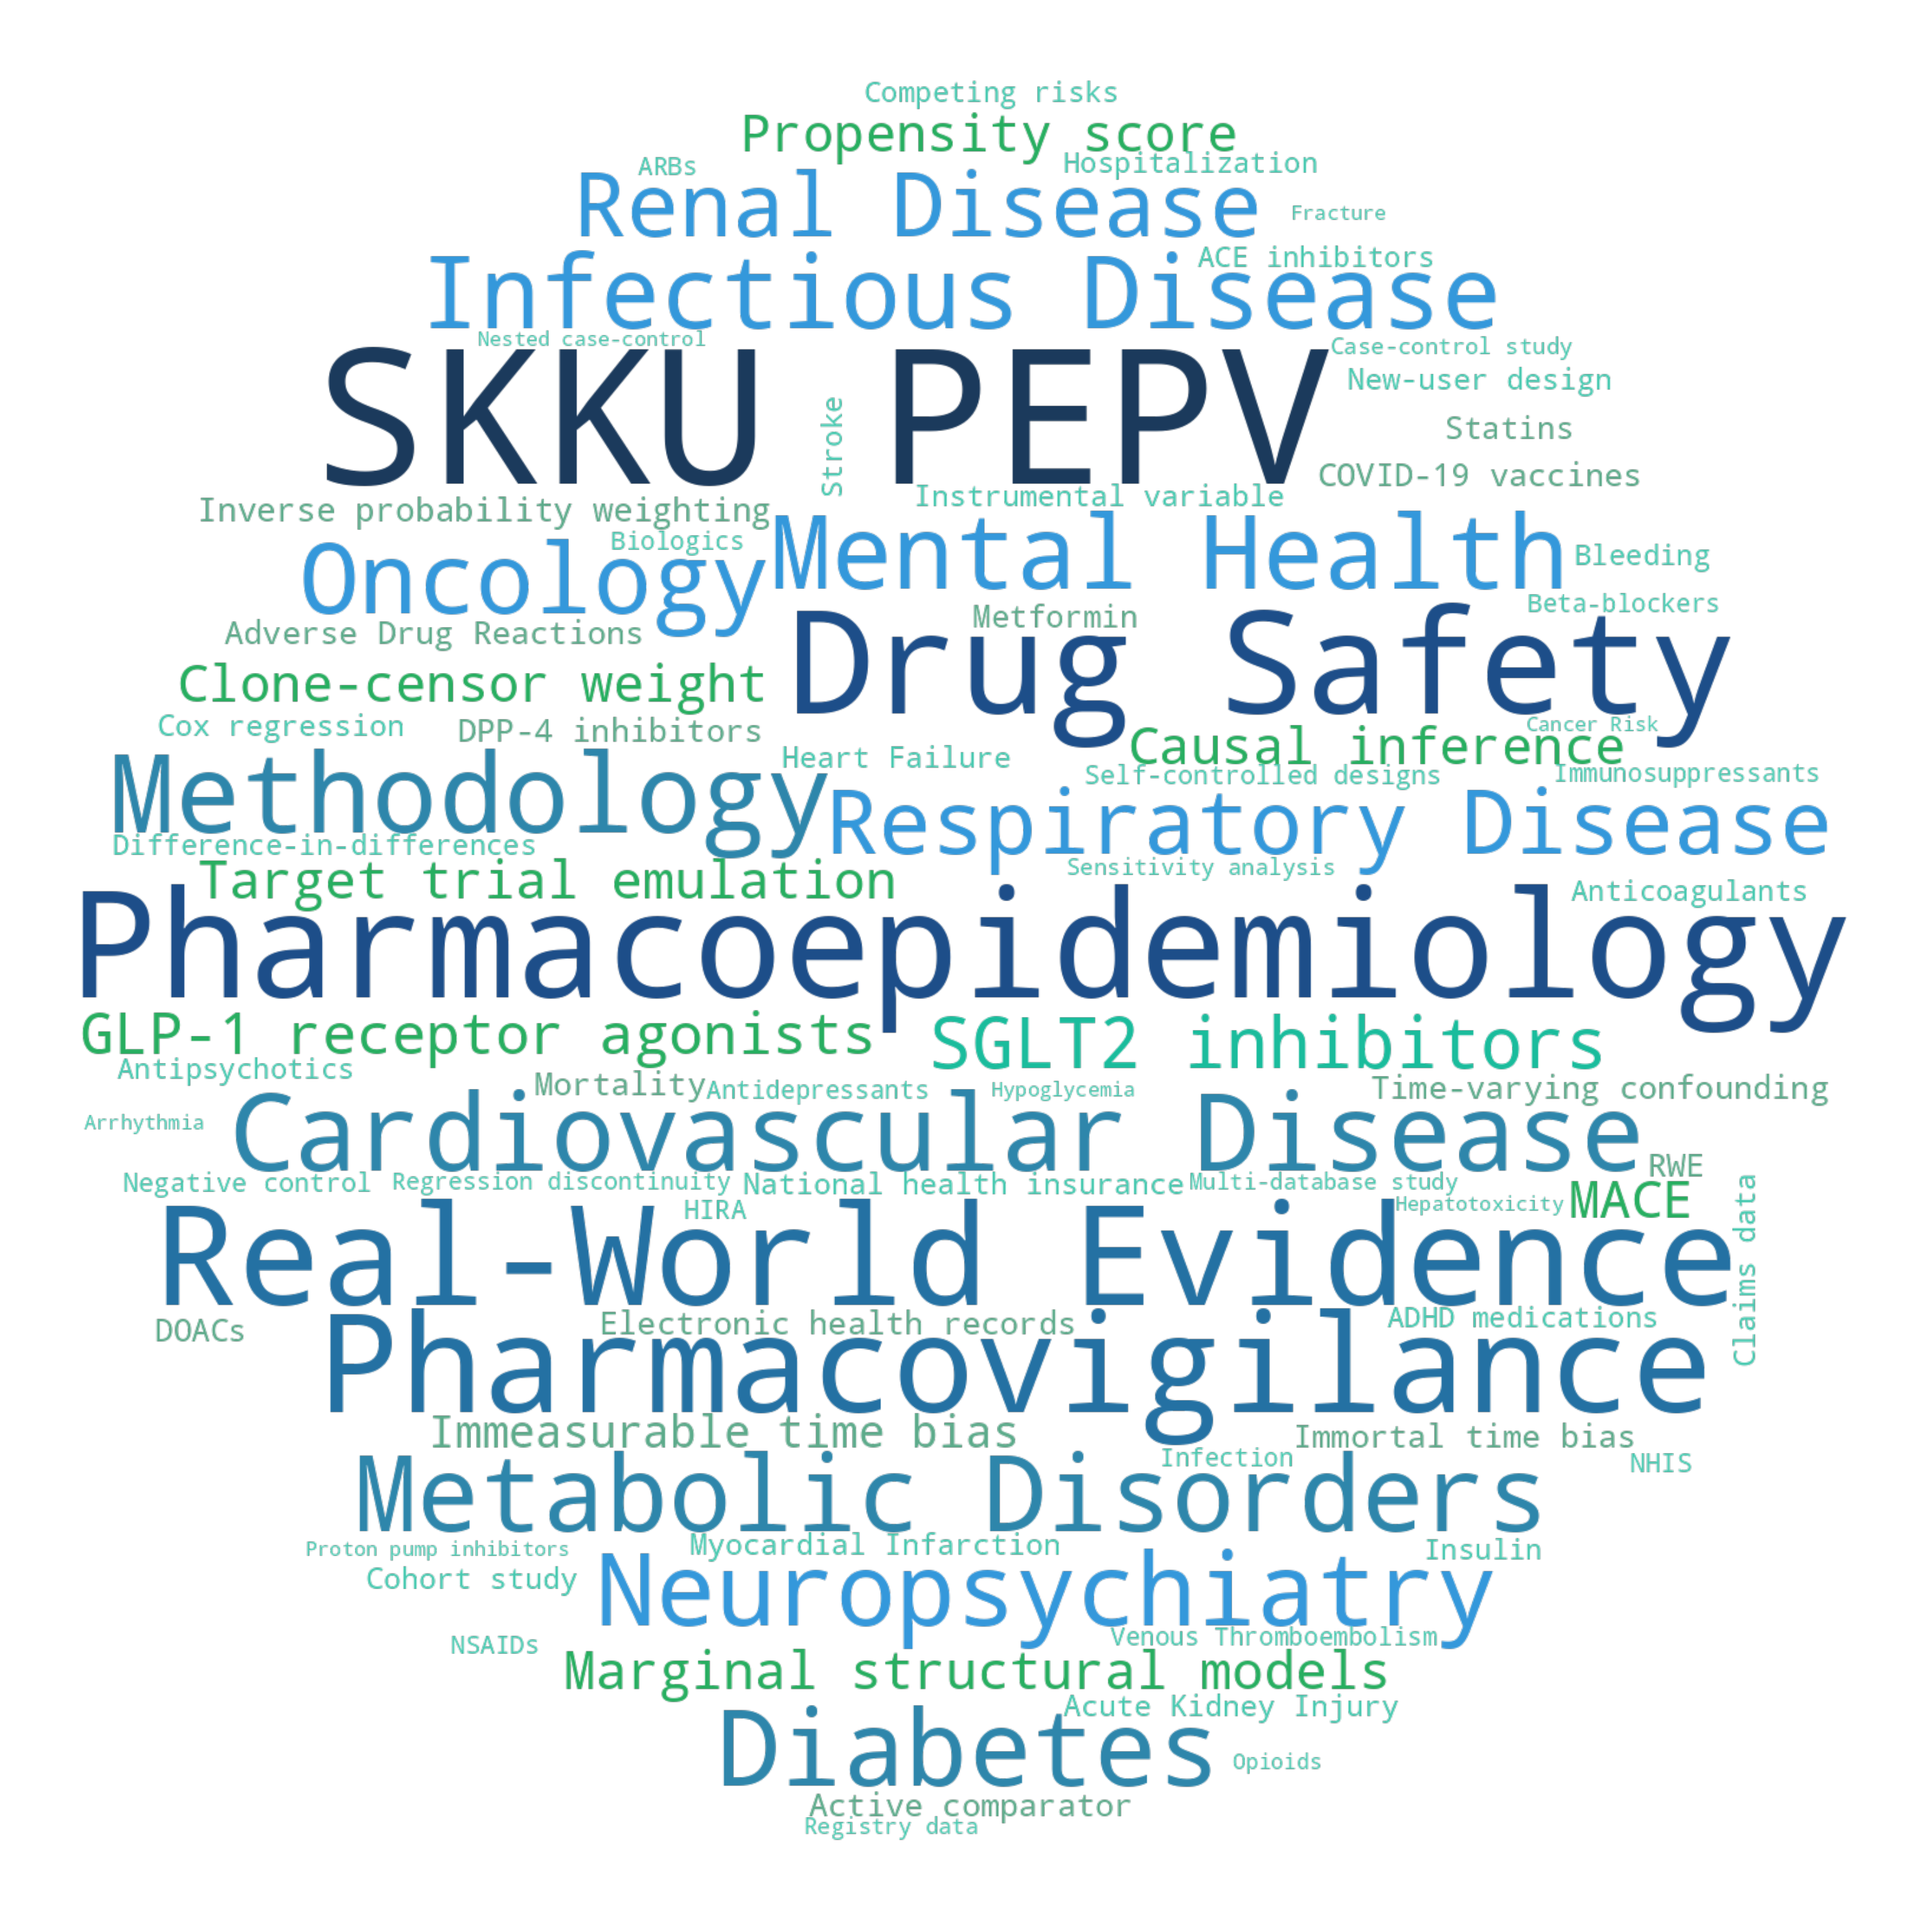
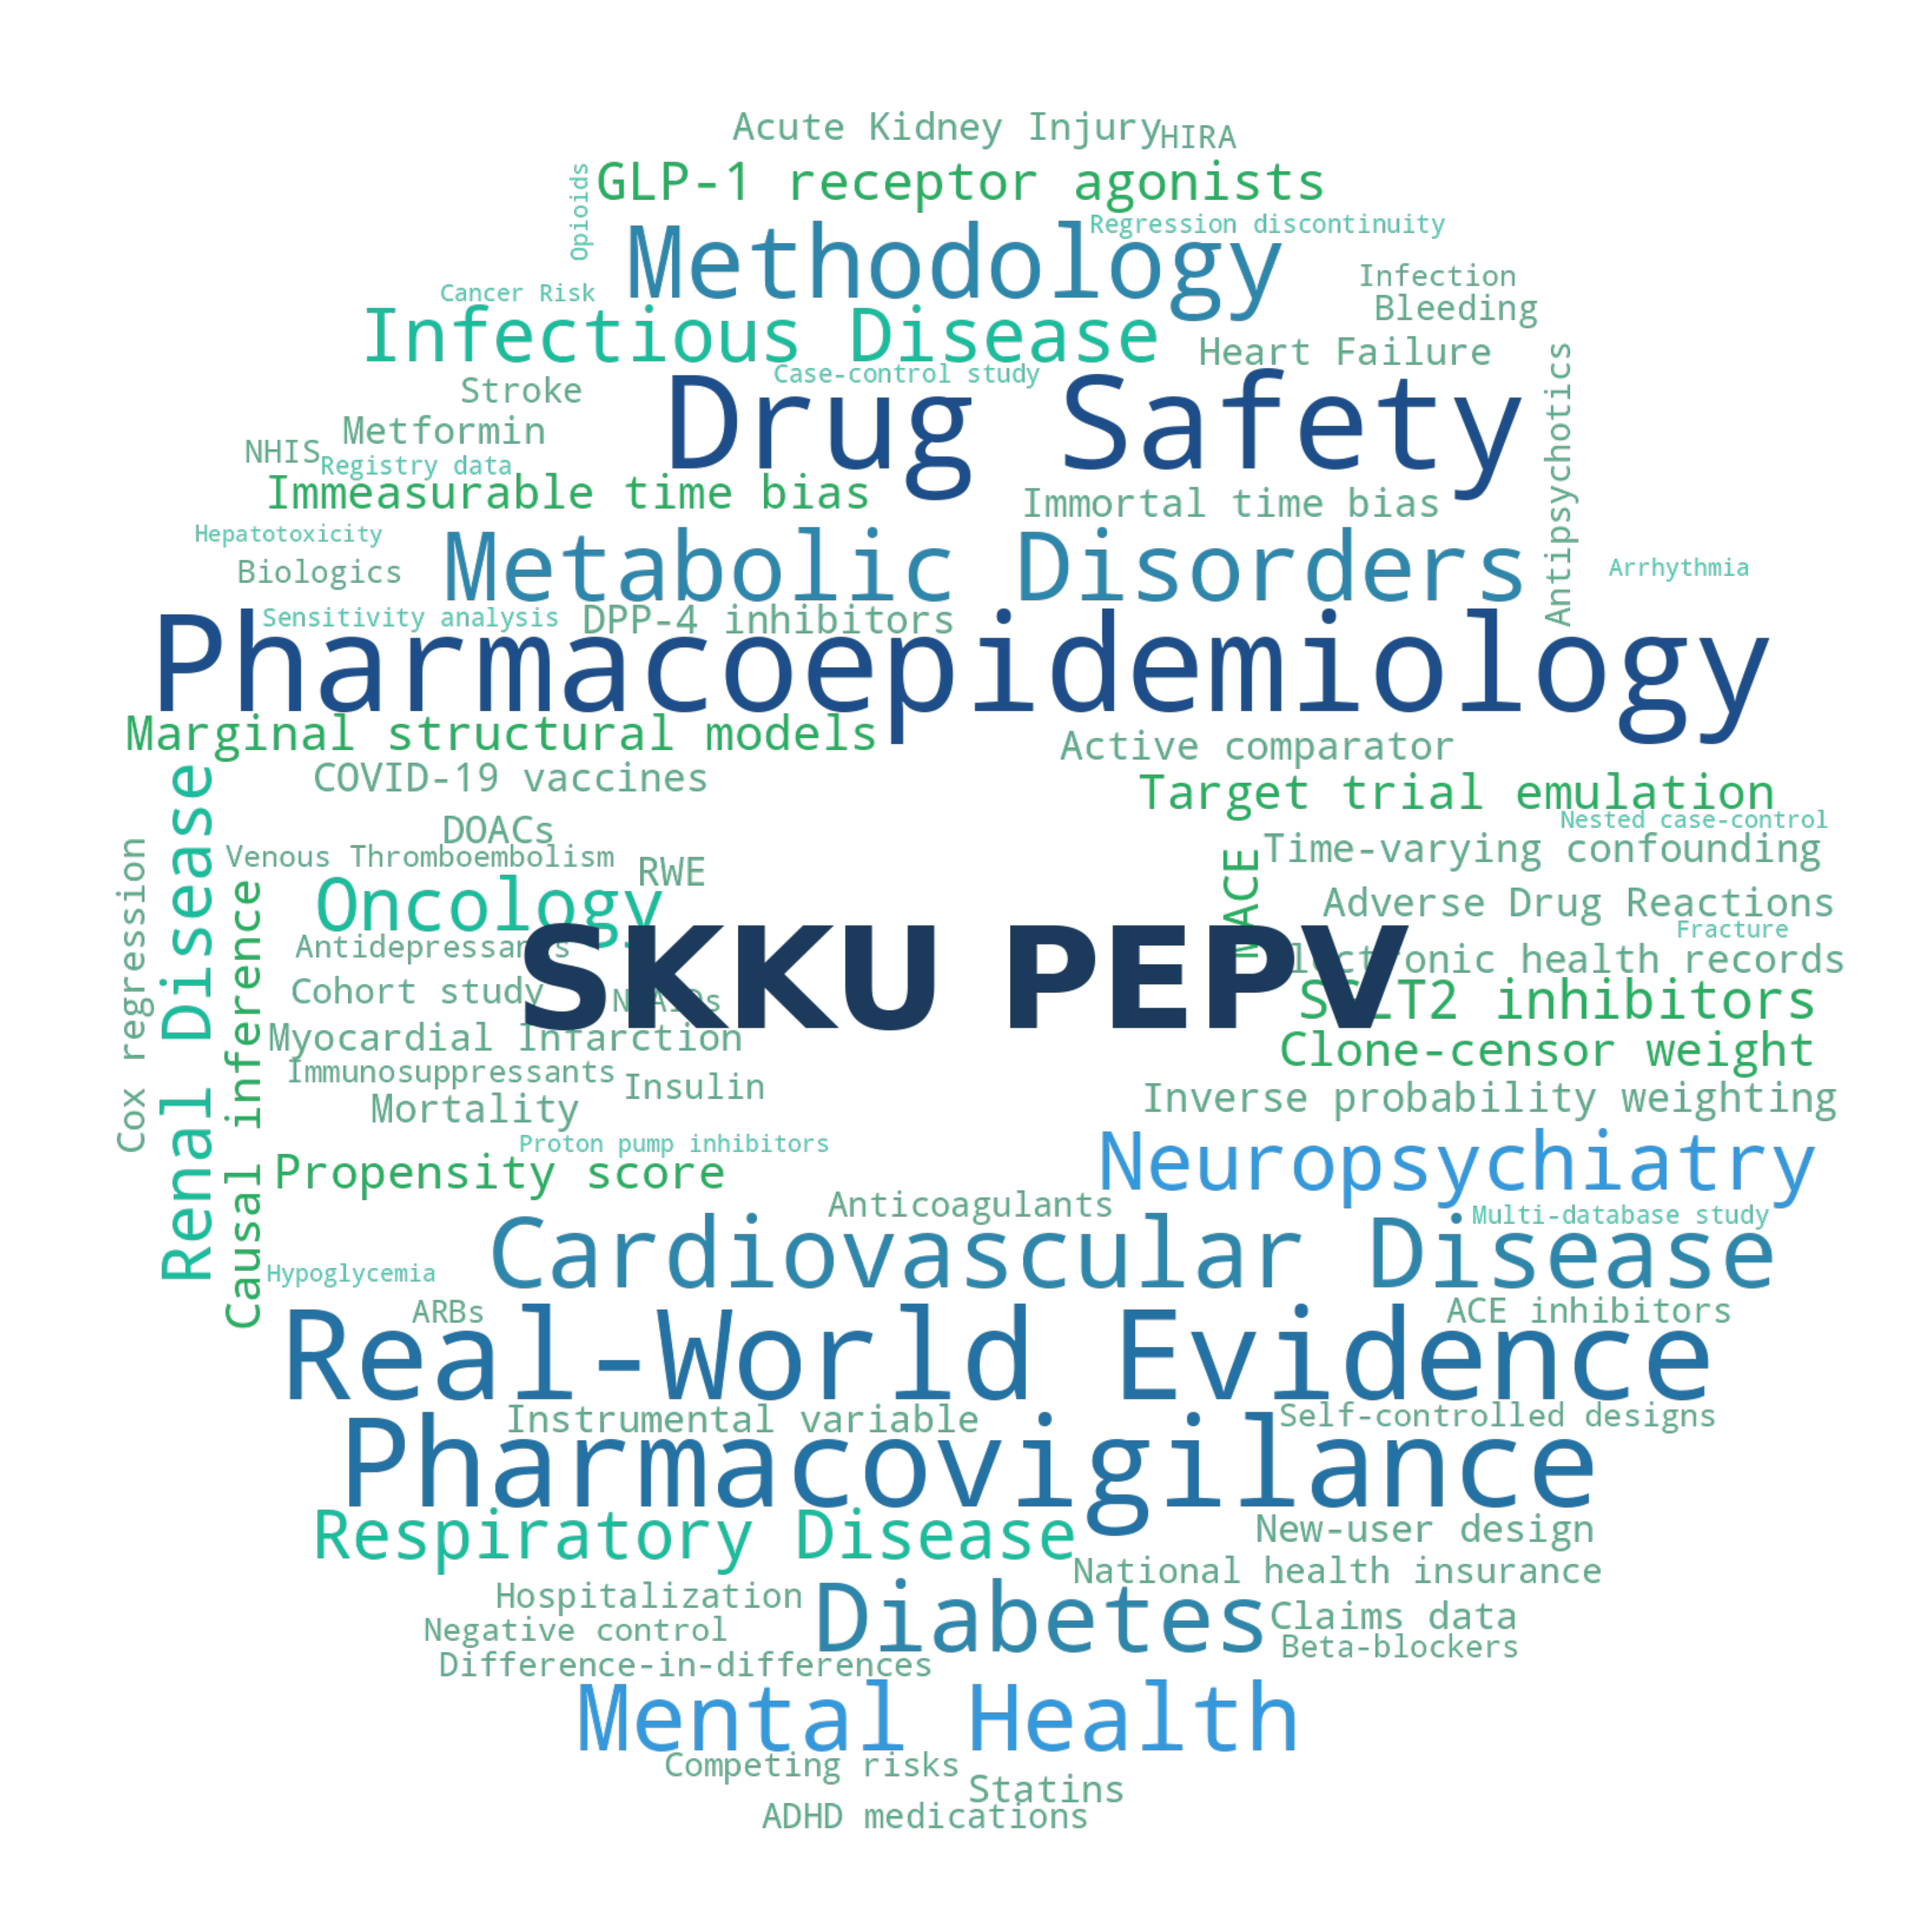
Center SKKU PEPV using donut mask with PIL text overlay
Use a donut-shaped mask to reserve center space, then composite
SKKU PEPV text via PIL ImageDraw for guaranteed center placement.

https://claude.ai/code/session_01FPDt3uEe6ir5MMsZieMNiU

Changed region(s): [[0.031, 0.031, 0.9603, 0.9603]]

diff --git a/ring_wordcloud.py b/ring_wordcloud.py
@@ -2,8 +2,7 @@ import numpy as np
 import pandas as pd
 import matplotlib.pyplot as plt
 from wordcloud import WordCloud
-from PIL import Image, ImageDraw
-from matplotlib.colors import LinearSegmentedColormap
+from PIL import Image, ImageDraw, ImageFont
 from pathlib import Path
 
 # -----------------------------
@@ -118,21 +117,32 @@ for term, level, importance in keywords:
     records.append((term, level, importance, round(w, 1)))
 
 df = pd.DataFrame(records, columns=["term", "level", "importance", "weight"])
-freq = dict(zip(df["term"], df["weight"]))
+
+# SKKU PEPV는 중앙에 별도 배치 → 워드클라우드 freq에서 제외
+freq = {row["term"]: row["weight"]
+        for _, row in df.iterrows() if row["term"] != "SKKU PEPV"}
 
 # -----------------------------
-# (B) 원형 마스크
+# (B) 도넛형 마스크 (중앙 비우기 → SKKU PEPV 자리)
 # -----------------------------
-def make_circle_mask(size=1600, margin=40):
-    img = Image.new("L", (size, size), 255)   # 255=흰색=배치 금지
+SIZE = 1600
+MARGIN = 40
+CENTER_R = 180  # 중앙 빈 공간 반지름 (SKKU PEPV 텍스트 자리)
+
+def make_donut_mask(size, margin, center_r):
+    img = Image.new("L", (size, size), 255)  # 흰색=배치 금지
     draw = ImageDraw.Draw(img)
-    draw.ellipse((margin, margin, size - margin, size - margin), fill=0)  # 0=검정=배치 허용
+    # 바깥 원: 배치 허용 (검정)
+    draw.ellipse((margin, margin, size - margin, size - margin), fill=0)
+    # 중앙 원: 배치 금지 (흰색) → SKKU PEPV 자리 확보
+    cx, cy = size // 2, size // 2
+    draw.ellipse((cx - center_r, cy - center_r, cx + center_r, cy + center_r), fill=255)
     return np.array(img)
 
-mask = make_circle_mask(size=1600, margin=40)
+mask = make_donut_mask(SIZE, MARGIN, CENTER_R)
 
 # -----------------------------
-# (C) 이전 버전 색상 팔레트 (파랑-초록-청록 계열)
+# (C) 색상 팔레트 (파랑-초록-청록 계열)
 # -----------------------------
 color_list = [
     "#1B3A5C",  # 진한 남색
@@ -148,25 +158,22 @@ color_list = [
 ]
 
 def custom_color_func(word, font_size, position, orientation, random_state=None, **kwargs):
-    """폰트 크기에 따라 진한색(큰 글씨) ~ 밝은색(작은 글씨) 매핑"""
-    # font_size 범위를 0~1로 정규화 (대략 10~160)
-    t = min(1.0, max(0.0, (font_size - 10) / 140))
-    # 큰 글씨일수록 진한 색 (리스트 앞쪽)
+    t = min(1.0, max(0.0, (font_size - 8) / 130))
     idx = int((1.0 - t) * (len(color_list) - 1))
     return color_list[idx]
 
 # -----------------------------
-# (D) 워드클라우드 생성
+# (D) 워드클라우드 생성 (SKKU PEPV 제외)
 # -----------------------------
 wc = WordCloud(
-    width=1600,
-    height=1600,
+    width=SIZE,
+    height=SIZE,
     background_color=None,
     mode="RGBA",
     mask=mask,
     prefer_horizontal=0.88,
     min_font_size=8,
-    max_font_size=160,
+    max_font_size=140,
     relative_scaling=0.45,
     collocations=False,
     random_state=42,
@@ -177,18 +184,41 @@ wc = WordCloud(
 wc.generate_from_frequencies(freq)
 
 # -----------------------------
-# (E) 저장
+# (E) SKKU PEPV를 중앙에 합성 (PIL)
+# -----------------------------
+wc_img = wc.to_image()  # RGBA
+
+# SKKU PEPV 텍스트를 중앙에 그리기
+draw = ImageDraw.Draw(wc_img)
+
+# 폰트 크기를 자동 조정 (중앙 공간에 맞춤)
+target_text = "SKKU PEPV"
+font_size = 120
+try:
+    font = ImageFont.truetype("/usr/share/fonts/truetype/dejavu/DejaVuSans-Bold.ttf", font_size)
+except OSError:
+    font = ImageFont.load_default()
+
+# 텍스트 크기 측정 후 중앙 배치
+bbox = draw.textbbox((0, 0), target_text, font=font)
+tw, th = bbox[2] - bbox[0], bbox[3] - bbox[1]
+x = (SIZE - tw) // 2
+y = (SIZE - th) // 2 - 10  # 살짝 위로 보정
+draw.text((x, y), target_text, fill="#1B3A5C", font=font)
+
+# -----------------------------
+# (F) 저장
 # -----------------------------
 out_dir = Path("wordcloud_output")
 out_dir.mkdir(exist_ok=True)
 
 # 투명 배경
 transparent_path = out_dir / "wordcloud_transparent.png"
-wc.to_file(str(transparent_path))
+wc_img.save(str(transparent_path))
 
 # 흰 배경 버전
 fig, ax = plt.subplots(figsize=(10, 10))
-ax.imshow(wc, interpolation="bilinear")
+ax.imshow(wc_img, interpolation="bilinear")
 ax.axis("off")
 plt.tight_layout()
 
